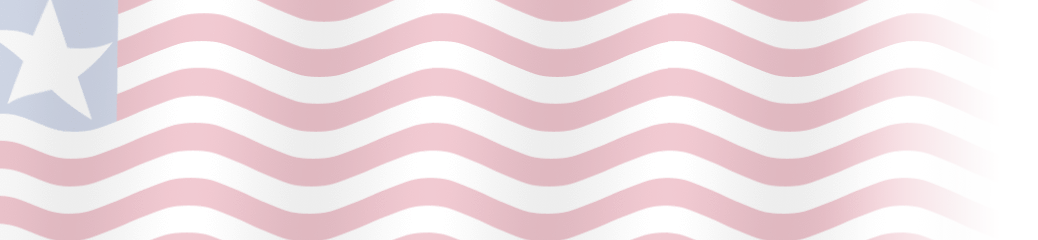
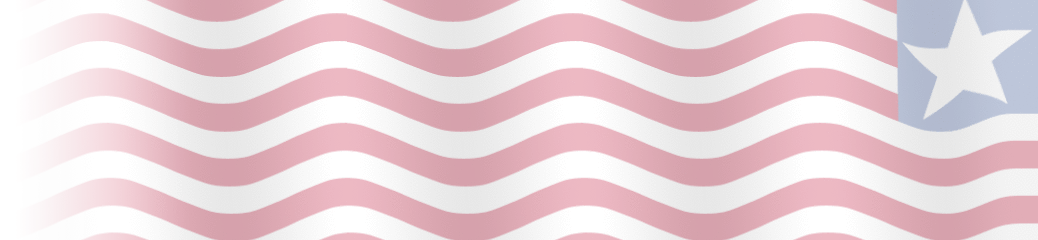
flip bg image, tweak links to make sure they're legible

diff --git a/assets/stylesheets/responsive/custom.scss b/assets/stylesheets/responsive/custom.scss
@@ -219,7 +219,7 @@ a.link_button_green_large {
 #banner_inner {
   background-color: $banner-bg;
   background-image: url('/assets/header-bg.png');
-  background-position: top left;
+  background-position: top right;
   background-repeat: no-repeat;
   background-size: 100%;
   @include respond-min($main_menu-mobile_menu_cutoff) {
@@ -323,6 +323,8 @@ a.link_button_green_large {
     @extend %menu-item;
     @extend %sub-menu-item;
     font-weight: normal;
+    color: #fff;
+    background-color: transparent;
   }
   #logged_in_links {
     top: 4em;
